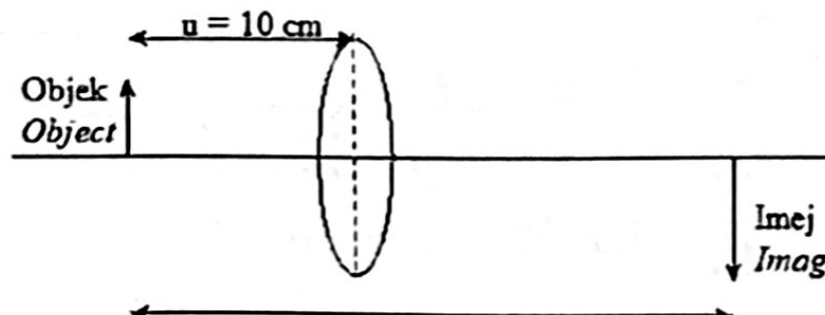
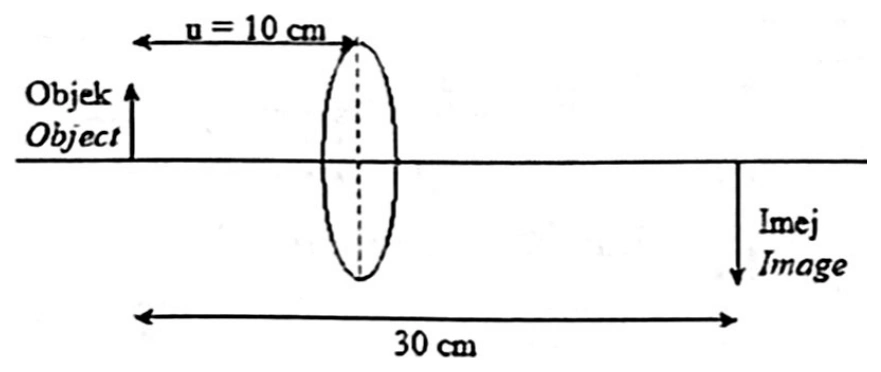
fix(b6-diagrams): precision re-crop Rajah 48, 57, 62, Q41 options and render thin lens formula
- Rajah 48 (MODUL_T4_B6_K3_Q04): Recropped from Page 18 with complete 30 cm dimension arrow and full 'Imej / Image' text without caption leakage
- Rajah 57 (MODUL_T4_B6_K3_Q18): Fixed tiny fragment bug; recropped complete convex lens diagram (15.0 cm, 10.0 cm) from Page 21 top right column
- Rajah 62 (MODUL_T4_B6_K3_Q28): Fixed tiny fragment bug; recropped complete convex lens diagram (f = 1.5 cm, u = 2.5 cm) from Page 23 top right column
- Q41 Options A-D (MODUL_T4_B6_K2_Q41): Precision recropped from Page 11, eliminating leaked Q42 CCTV text ('h 27 d bawah me', 'ukk h nk') and stray dots (100% pure white border)
- Thin Lens Formula (MODUL_T4_B6_K1_Q02): Integrated KaTeX CDN into index.html, added 'represents' and 'mewakili' keywords to app.js, and structured paragraphs so 1/f = 1/u + 1/v renders as a crisp display equation with no text scrambling
- All 7 WebP images re-uploaded to Cloudflare R2
- 13 Golden Invariants 100% satisfied across all 783 questions

Changed region(s): [[0.0, 0.0286, 1.0, 1.0]]

diff --git a/app.js b/app.js
@@ -1,4 +1,21 @@
 
+function triggerMathRender(el) {
+  if (window.renderMathInElement) {
+    try {
+      renderMathInElement(el || document.body, {
+        delimiters: [
+          { left: "$$", right: "$$", display: true },
+          { left: "$", right: "$", display: false }
+        ],
+        throwOnError: false
+      });
+    } catch (e) {
+      console.warn("KaTeX render error:", e);
+    }
+  }
+}
+
+
 // ============================================================================
 // GUIDED JSU PROGRESSIVE DISCLOSURE (MOD TETAPAN BERPANDU)
 // ============================================================================
@@ -815,6 +832,7 @@ function switchWorkflowStage(stageNumber) {
 
   updateStepperUI(stage);
   if (window.lucide) lucide.createIcons();
+  triggerMathRender(container);
   window.scrollTo({ top: 0, behavior: "smooth" });
 }
 
@@ -1095,7 +1113,7 @@ function formatBilingualText(raw) {
     "fission","fusion","threshold","function","underline","answer","statement","statements",
     "stated","normal","reaction","slope","plane","rough","sliding","slides","reasons",
     "relationship","gives","a","an","unit","derived","base","time","displacement",
-    "distance","motion","situation","represented","ball","car","trolley","cycles","stops",
+    "distance","motion","situation","represented","represents","ball","car","trolley","cycles","stops",
     "grocery","store","behind","house","school","journey","length","trajectory","travelled",
     "shortest","direction","initial","final","positions","equal","true","false","based",
     "on","table","following","substance","liquid","gas","solid","melting","boiling",
@@ -1139,7 +1157,7 @@ function formatBilingualText(raw) {
     "fungsi","gariskan","jawapan","pernyataan","pernyataandi","tindak","balas","satah",
     "condong","kasar","menggelongsor","sebab","hubungan","beri","sebuah","satu","unit",
     "terbitan","asas","masa","sesaran","jarak","gerakan","situasi","diwakili","kereta",
-    "bola","troli","mengayuh","basikal","rumah","rumahnya","sekolah","kedai","runcit",
+    "bola","troli","mengayuh","basikal","rumah","rumahnya","sekolah","kedai","runcit","mewakili",
     "perjalanan","perjalanannya","singgah","lintasan","pergerakan","terpendek","arah",
     "tertentu","garis","lurus","kedudukan","awal","akhir","sama","jadual","berikut",
     "bahan","cecair","pepejal","gas","takat","lebur","beku","didih","muatan","graviti",
@@ -1195,9 +1213,10 @@ function formatBilingualText(raw) {
       const isAlphaBullet = /^\([a-z0-9]+\)/i.test(line);
       const isNumBullet = /^[0-9]+\.\s*/.test(line);
       const isBullet = isRoman || isAlphaBullet || isNumBullet;
+      const isFormula = /^\$\$|\frac|^\d+\/\w+\s*=\s*\d+\/\w+|^[a-z]\s*=\s*|<div/i.test(line);
 
-      let lang = detectLineLang(line);
-      if (lang === "neutral") {
+      let lang = isFormula ? "neutral" : detectLineLang(line);
+      if (lang === "neutral" && !isFormula) {
         if (/^[a-z,;)]/.test(line)) {
           lang = lastLang;
         } else if (isBullet) {
@@ -1208,11 +1227,11 @@ function formatBilingualText(raw) {
       }
 
       const prev = items[items.length - 1];
-      if (prev && !isBullet && prev.lang === lang) {
+      if (prev && !isBullet && !isFormula && !prev.isFormula && prev.lang === lang) {
         prev.text += " " + line;
       } else {
-        items.push({ text: line, lang, isBullet });
-        lastLang = lang;
+        items.push({ text: line, lang, isBullet, isFormula });
+        if (!isFormula) lastLang = lang;
       }
     }
 

diff --git a/index.html b/index.html
@@ -16,6 +16,11 @@
   <!-- html2pdf for DOCX/PDF export -->
   <script src="https://cdnjs.cloudflare.com/ajax/libs/html2pdf.js/0.10.1/html2pdf.bundle.min.js"></script>
 
+  <!-- KaTeX for crisp formula rendering -->
+  <link rel=stylesheet href="https://cdn.jsdelivr.net/npm/katex@0.16.11/dist/katex.min.css">
+  <script defer src="https://cdn.jsdelivr.net/npm/katex@0.16.11/dist/katex.min.js"></script>
+  <script defer src="https://cdn.jsdelivr.net/npm/katex@0.16.11/dist/contrib/auto-render.min.js" onload="if(window.renderMathInElement)renderMathInElement(document.body,{delimiters:[{left:'$$',right:'$$',display:true},{left:'$',right:'$',display:false}]})"></script>
+
   <link rel="stylesheet" href="styles.css">
 </head>
 <body>

diff --git a/dskp-data.js b/dskp-data.js
@@ -29859,7 +29859,7 @@ const QUESTION_BANK = [
     "topik": "6.4 Formula Kanta Nipis",
     "aras": "Rendah",
     "konstruk": "Mengingat",
-    "soalan": "Berikut adalah formula bagi kanta nipis:\nFollowing is the formula for a thin lens:\n$$\\frac{1}{f} = \\frac{1}{u} + \\frac{1}{v}$$\nf mewakili\nf represents",
+    "soalan": "Berikut adalah formula bagi kanta nipis:\nFollowing is the formula for a thin lens:\n\n$$\\frac{1}{f} = \\frac{1}{u} + \\frac{1}{v}$$\n\nf mewakili\nf represents",
     "rajahUrl": "",
     "pilihan": [
       {

diff --git a/scripts/re_crop_user_reported_diagrams.py b/scripts/re_crop_user_reported_diagrams.py
@@ -1,0 +1,62 @@
+#!/usr/bin/env python3
+import fitz
+import cv2
+import numpy as np
+import os
+from PIL import Image
+
+pdf_path = '/Users/halimroslan/Downloads/Modul Konstruk K1 Objektif/Tingkatan 4/Modul Konstruk K1 BAB 6 T4.pdf'
+doc = fitz.open(pdf_path)
+
+def process_and_save(pix, out_path, pad=14):
+    arr = np.frombuffer(pix.samples, dtype=np.uint8).reshape(pix.height, pix.width, pix.n)
+    if pix.n == 4:
+        arr = cv2.cvtColor(arr, cv2.COLOR_RGBA2BGR)
+    elif pix.n == 1:
+        arr = cv2.cvtColor(arr, cv2.COLOR_GRAY2BGR)
+
+    gray = cv2.cvtColor(arr, cv2.COLOR_BGR2GRAY)
+    ink = (gray < 220).astype(np.uint8)
+    coords = cv2.findNonZero(ink)
+    if coords is not None:
+        x, y, w, h = cv2.boundingRect(coords)
+        arr = arr[y:y+h, x:x+w]
+
+    # Add pure white border
+    padded = cv2.copyMakeBorder(arr, pad, pad, pad, pad, cv2.BORDER_CONSTANT, value=[255, 255, 255])
+    
+    # Save as webp
+    os.makedirs(os.path.dirname(out_path), exist_ok=True)
+    pil_img = Image.fromarray(cv2.cvtColor(padded, cv2.COLOR_BGR2RGB))
+    pil_img.save(out_path, 'WEBP', quality=95)
+    print(f"Saved {out_path} -> size: {pil_img.size}")
+
+# 1. Rajah 48 (Page 18)
+page18 = doc[17]
+pix48 = page18.get_pixmap(dpi=300, clip=fitz.Rect(75, 486, 285, 582.5))
+process_and_save(pix48, 'assets/diagrams/modul_konstruk_t4/b6/t4_b6_rajah48_v2.webp')
+
+# 2. Rajah 57 (Page 21)
+page21 = doc[20]
+pix57 = page21.get_pixmap(dpi=300, clip=fitz.Rect(320, 55, 560, 174))
+process_and_save(pix57, 'assets/diagrams/modul_konstruk_t4/b6/t4_b6_rajah57_v2.webp')
+
+# 3. Rajah 62 (Page 23)
+page23 = doc[22]
+pix62 = page23.get_pixmap(dpi=300, clip=fitz.Rect(320, 50, 560, 158.5))
+process_and_save(pix62, 'assets/diagrams/modul_konstruk_t4/b6/t4_b6_rajah62_v2.webp')
+
+# 4. Q41 Options A, B, C, D (Page 11)
+page11 = doc[10]
+q41_boxes = {
+    'a': fitz.Rect(330, 475, 425, 542),
+    'b': fitz.Rect(330, 544.5, 425, 615),
+    'c': fitz.Rect(440, 475, 545, 544),
+    'd': fitz.Rect(440, 544.5, 545, 615)
+}
+
+for opt_id, rect in q41_boxes.items():
+    pix = page11.get_pixmap(dpi=300, clip=rect)
+    process_and_save(pix, f'assets/diagrams/modul_konstruk_t4/b6/options/t4_b6_k2_q41_opt_{opt_id}.webp')
+
+print("All 7 images processed and saved successfully.")

diff --git a/scripts/build_dataset_helper_b6.py b/scripts/build_dataset_helper_b6.py
@@ -57,8 +57,8 @@ EXACT_QUESTION_STEMS = {
     ),
     "MODUL_T4_B6_K1_Q02": (
         "Berikut adalah formula bagi kanta nipis:\n"
-        "Following is the formula for a thin lens:\n"
-        "$$\\frac{1}{f} = \\frac{1}{u} + \\frac{1}{v}$$\n"
+        "Following is the formula for a thin lens:\n\n"
+        "$$\\frac{1}{f} = \\frac{1}{u} + \\frac{1}{v}$$\n\n"
         "f mewakili\n"
         "f represents"
     ),
